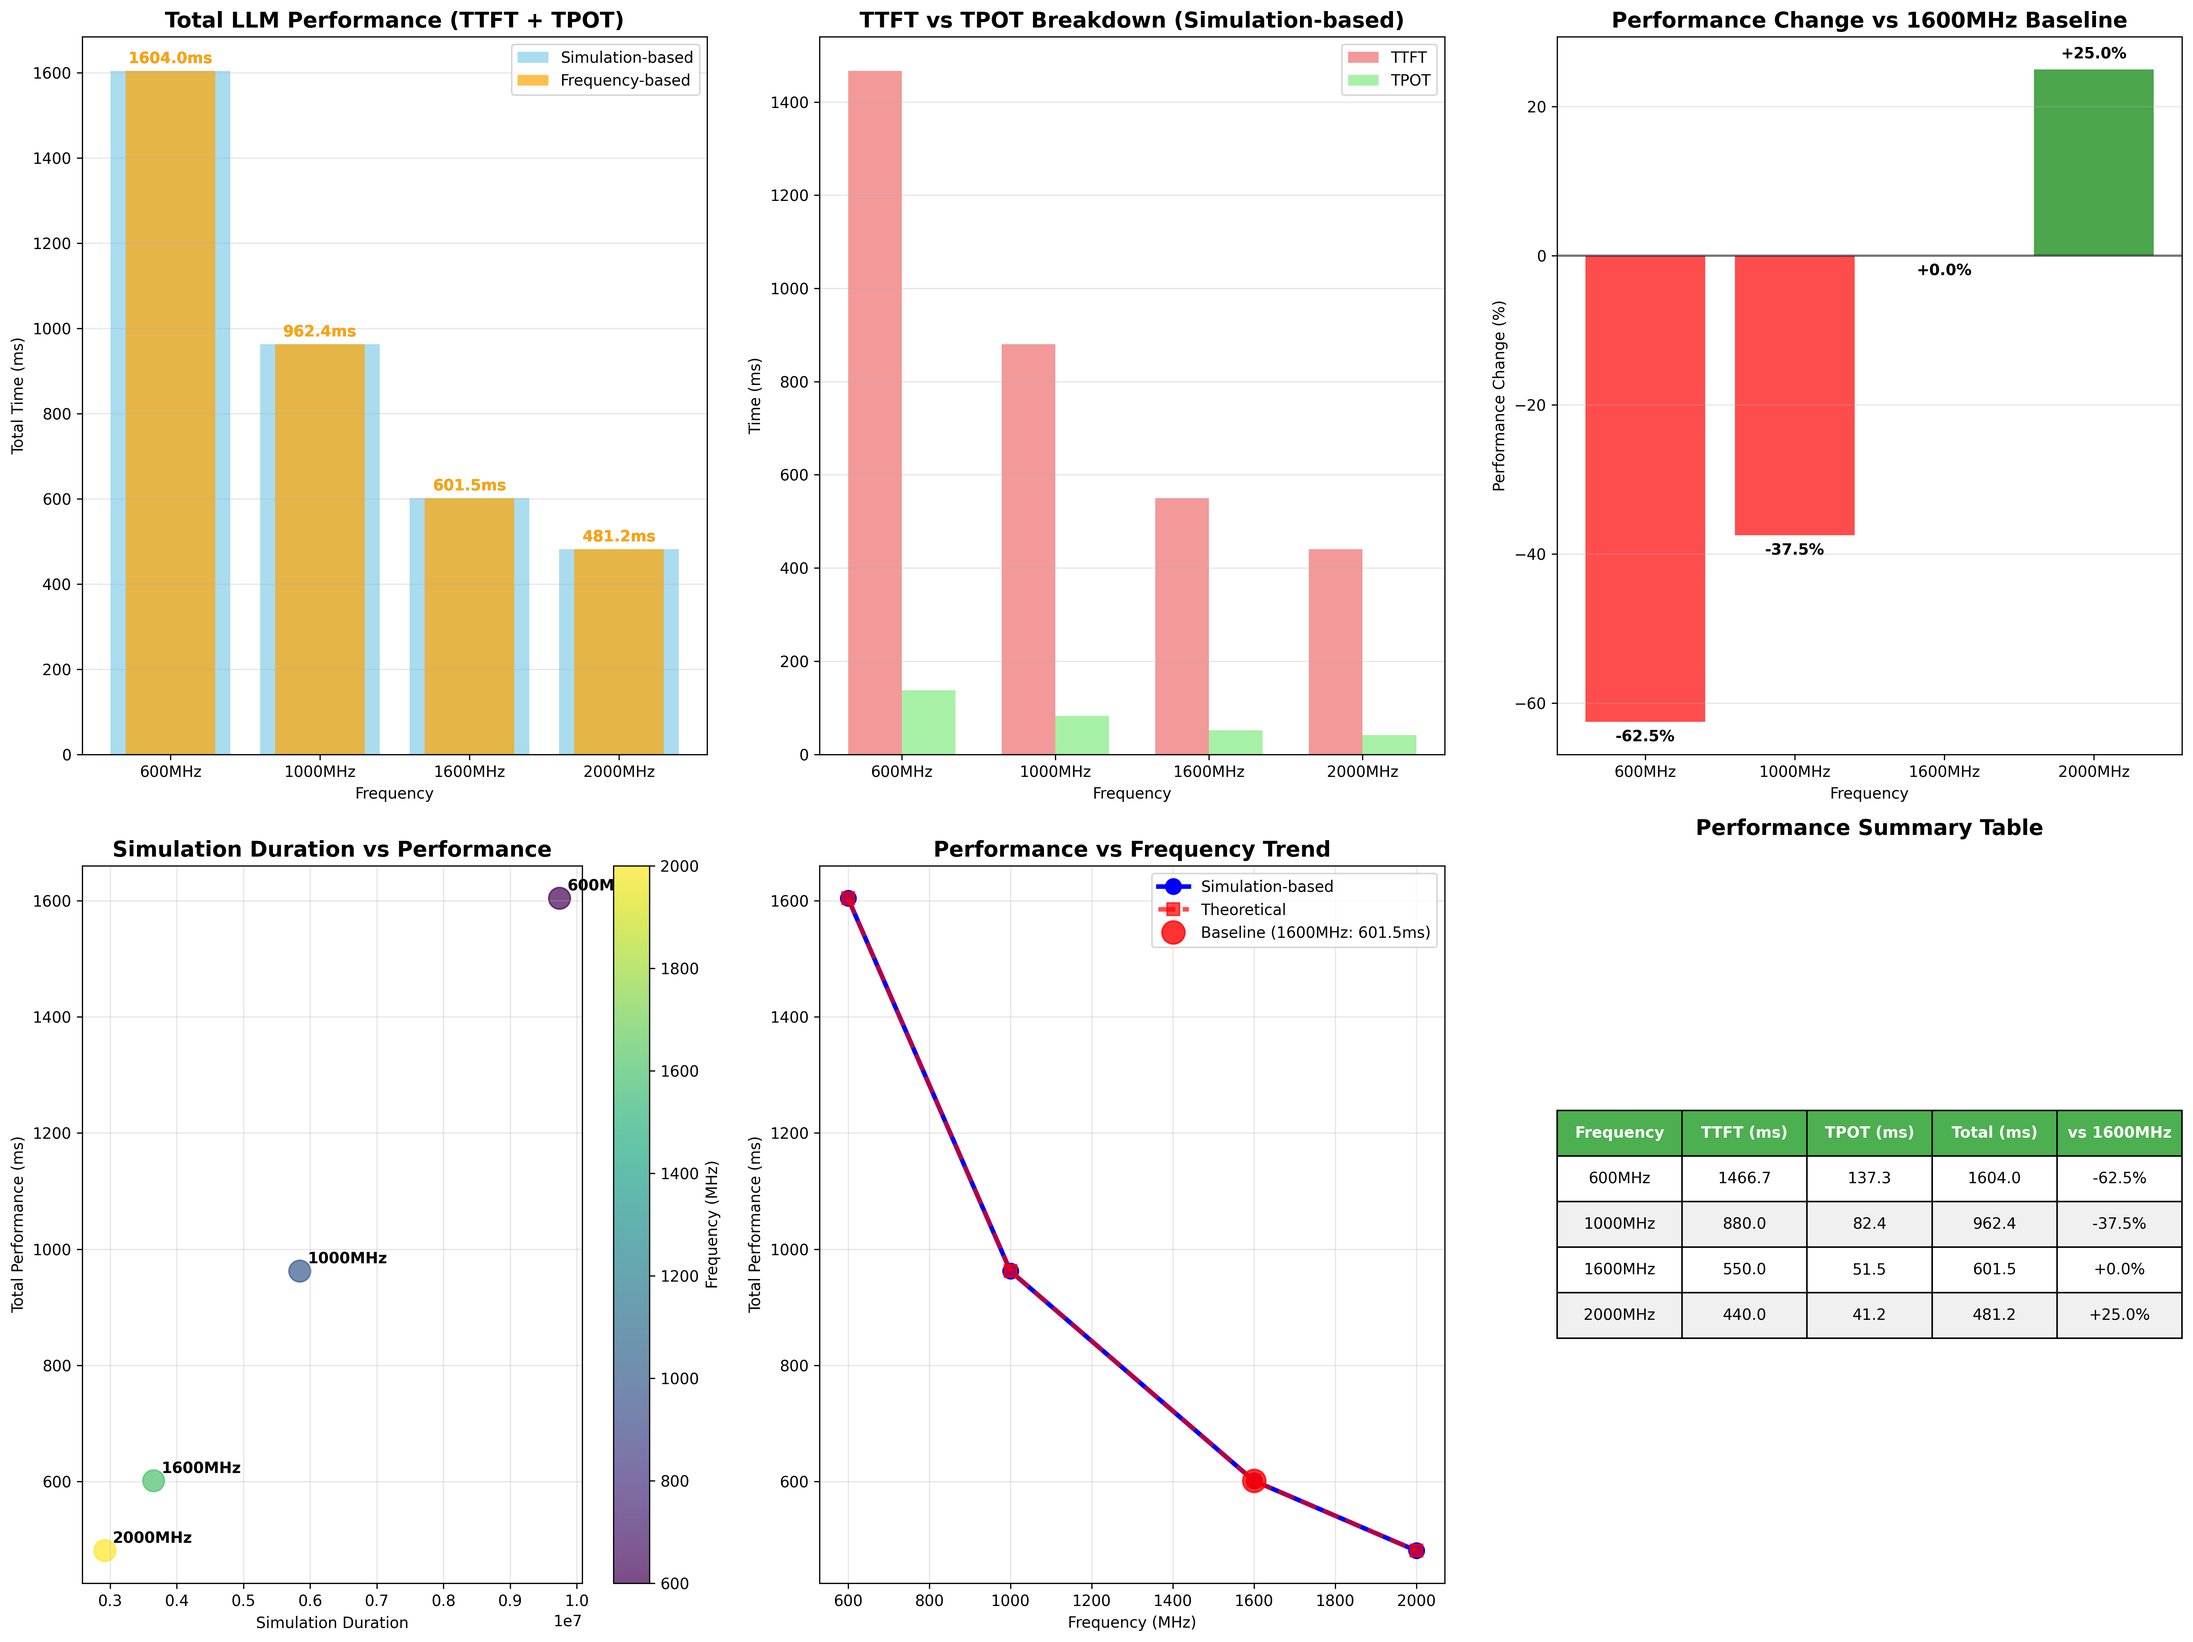
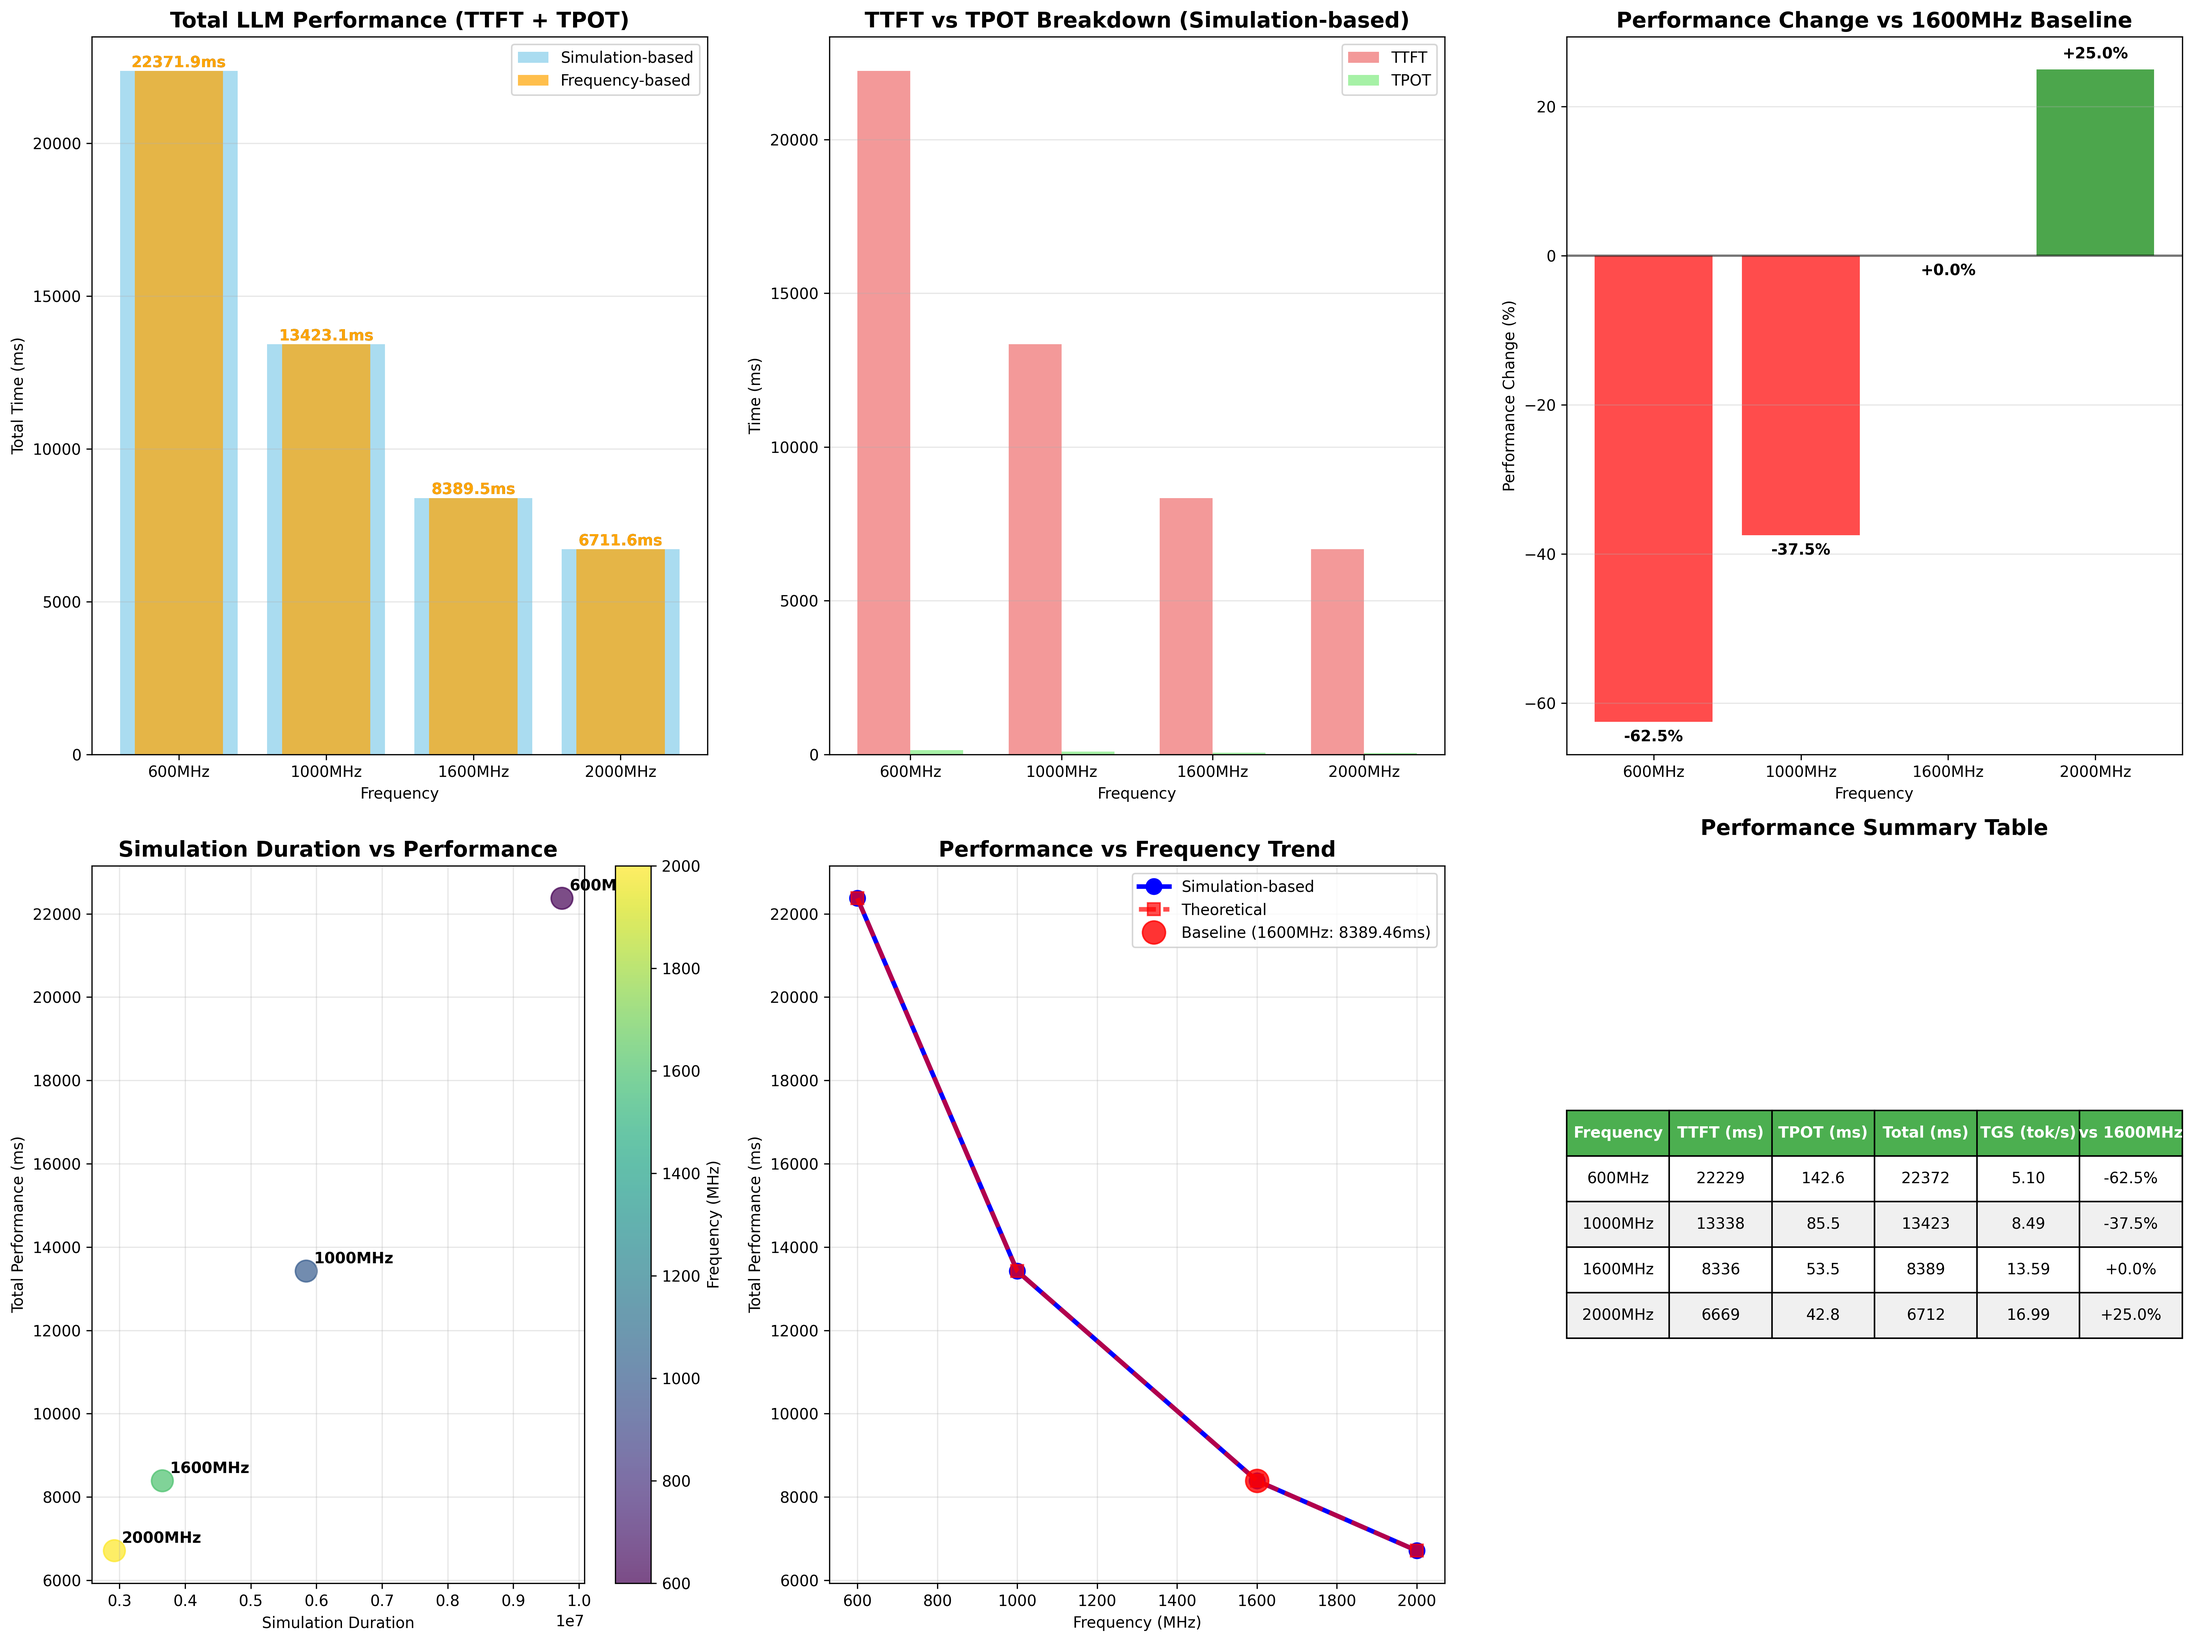
Update performance projections with new baseline measurements and TGS calculations
Major Updates:
- Update baseline: TTFT=8.336s, TPOT=53.46ms at 1600MHz
- Add Token Generation Speed (TGS) calculations for all frequencies
- Add output token rate calculations
- Update performance projections across all frequencies
- Add comprehensive TGS methodology documentation

Performance Results:
- Best TGS: 2000MHz  16.99 tokens/sec (+25% vs baseline)
- Baseline TGS: 1600MHz  13.59 tokens/sec
- Worst TGS: 600MHz  5.10 tokens/sec (-62.5% vs baseline)
- Token config: 112 input + 2 output = 114 total tokens

Files Updated:
- performance_projector.py: Enhanced with TGS calculations
- README.md: Updated with latest performance results
- TGS_CALCULATION_EXPLANATION.md: Detailed methodology guide

diff --git a/performance_projector.py b/performance_projector.py
@@ -12,11 +12,16 @@ from pathlib import Path
 
 class LLMPerformanceProjector:
     def __init__(self):
-        # Baseline performance at 1600MHz
+        # Baseline performance at 1600MHz (Updated Nov 15, 2025)
         self.baseline_freq = 1600
-        self.baseline_ttft = 550  # ms
-        self.baseline_tpot = 51.5  # ms
-        self.baseline_total = self.baseline_ttft + self.baseline_tpot  # 601.5 ms
+        self.baseline_ttft = 8336  # ms (8.336 seconds)
+        self.baseline_tpot = 53.46  # ms
+        self.baseline_total = self.baseline_ttft + self.baseline_tpot  # 8389.46 ms
+        
+        # Token configuration for TGS calculation
+        self.input_tokens = 112
+        self.output_tokens = 2
+        self.total_tokens = self.input_tokens + self.output_tokens  # 114 tokens
         
         # Load simulation results
         self.load_simulation_data()
@@ -69,6 +74,19 @@ class LLMPerformanceProjector:
             theoretical_tpot = self.baseline_tpot * freq_ratio
             theoretical_total = theoretical_ttft + theoretical_tpot
             
+            # Calculate Token Generation Speed (TGS) - tokens per second
+            # For simulation-based projections
+            projected_total_seconds = projected_total / 1000
+            projected_tgs = self.total_tokens / projected_total_seconds if projected_total_seconds > 0 else 0
+            
+            # For theoretical projections  
+            theoretical_total_seconds = theoretical_total / 1000
+            theoretical_tgs = self.total_tokens / theoretical_total_seconds if theoretical_total_seconds > 0 else 0
+            
+            # Calculate output token rate (tokens per second for generation phase)
+            projected_tpot_seconds = projected_tpot / 1000
+            output_token_rate = self.output_tokens / projected_tpot_seconds if projected_tpot_seconds > 0 else 0
+            
             results.append({
                 'frequency': freq_num,
                 'frequency_str': freq_str,
@@ -80,6 +98,9 @@ class LLMPerformanceProjector:
                 'theoretical_ttft': theoretical_ttft,
                 'theoretical_tpot': theoretical_tpot,
                 'theoretical_total': theoretical_total,
+                'projected_tgs': projected_tgs,
+                'theoretical_tgs': theoretical_tgs,
+                'output_token_rate': output_token_rate,
                 'performance_improvement': (self.baseline_total / projected_total - 1) * 100
             })
         
@@ -189,14 +210,15 @@ class LLMPerformanceProjector:
         for _, row in df.iterrows():
             table_data.append([
                 row['frequency_str'],
-                f"{row['projected_ttft']:.1f}",
+                f"{row['projected_ttft']:.0f}",
                 f"{row['projected_tpot']:.1f}",
-                f"{row['projected_total']:.1f}",
+                f"{row['projected_total']:.0f}",
+                f"{row['projected_tgs']:.2f}",
                 f"{row['performance_improvement']:+.1f}%"
             ])
         
         table = ax6.table(cellText=table_data,
-                         colLabels=['Frequency', 'TTFT (ms)', 'TPOT (ms)', 'Total (ms)', 'vs 1600MHz'],
+                         colLabels=['Frequency', 'TTFT (ms)', 'TPOT (ms)', 'Total (ms)', 'TGS (tok/s)', 'vs 1600MHz'],
                          cellLoc='center',
                          loc='center')
         table.auto_set_font_size(False)
@@ -205,7 +227,7 @@ class LLMPerformanceProjector:
         
         # Style the table
         for i in range(len(df) + 1):
-            for j in range(5):
+            for j in range(6):  # Updated for 6 columns
                 cell = table[(i, j)]
                 if i == 0:  # Header
                     cell.set_facecolor('#4CAF50')
@@ -228,14 +250,21 @@ class LLMPerformanceProjector:
         print("\n" + "="*80)
         print("🚀 LLM PERFORMANCE PROJECTION REPORT")
         print("="*80)
-        print(f"📊 Baseline: 1600MHz → TTFT: {self.baseline_ttft}ms, TPOT: {self.baseline_tpot}ms, Total: {self.baseline_total}ms")
+        print(f"📊 Baseline: 1600MHz → TTFT: {self.baseline_ttft:.1f}ms ({self.baseline_ttft/1000:.3f}s), TPOT: {self.baseline_tpot:.2f}ms")
+        print(f"📊 Token Configuration: {self.input_tokens} input + {self.output_tokens} output = {self.total_tokens} total tokens")
+        
+        # Calculate baseline TGS
+        baseline_tgs = self.total_tokens / (self.baseline_total / 1000)
+        baseline_output_rate = self.output_tokens / (self.baseline_tpot / 1000)
+        print(f"📊 Baseline TGS: {baseline_tgs:.2f} tokens/sec | Output Rate: {baseline_output_rate:.2f} tokens/sec")
+        
         print("\n📈 PROJECTED PERFORMANCE ACROSS FREQUENCIES:")
-        print("-"*80)
+        print("-"*120)
         
         for _, row in df.iterrows():
             improvement = "🚀" if row['performance_improvement'] > 0 else "⚠" if row['performance_improvement'] < -10 else "📊"
-            print(f"{improvement} {row['frequency_str']:>8}: TTFT={row['projected_ttft']:6.1f}ms | TPOT={row['projected_tpot']:5.1f}ms | "
-                  f"Total={row['projected_total']:6.1f}ms | Change: {row['performance_improvement']:+5.1f}%")
+            print(f"{improvement} {row['frequency_str']:>8}: TTFT={row['projected_ttft']:7.1f}ms | TPOT={row['projected_tpot']:6.2f}ms | "
+                  f"Total={row['projected_total']:7.1f}ms | TGS={row['projected_tgs']:5.2f} tok/s | Change: {row['performance_improvement']:+5.1f}%")
         
         # Find best and worst performers
         best_freq = df.loc[df['projected_total'].idxmin()]

diff --git a/TGS_CALCULATION_EXPLANATION.md b/TGS_CALCULATION_EXPLANATION.md
@@ -1,0 +1,95 @@
+# Token Generation Speed (TGS) Calculation Explanation
+
+## 📊 Updated Baseline Measurements (November 15, 2025)
+
+**Hardware Configuration:**
+- **Frequency**: 1600MHz  
+- **Input Tokens**: 112
+- **Output Tokens**: 2
+- **Total Tokens**: 114
+
+**Performance Measurements:**
+- **TTFT (Time To First Token)**: 8.336 seconds (8,336 ms)
+- **TPOT (Time Per Output Token)**: 53.46 ms
+- **Total Response Time**: 8,389.46 ms (8.389 seconds)
+
+## 🧮 Token Generation Speed (TGS) Formula
+
+### **Overall Token Generation Speed**
+```
+TGS = Total Tokens / Total Response Time
+TGS = 114 tokens / 8.389 seconds = 13.59 tokens/second
+```
+
+### **Output Token Rate (Generation Phase Only)**
+```
+Output Rate = Output Tokens / TPOT
+Output Rate = 2 tokens / 0.05346 seconds = 37.41 tokens/second
+```
+
+## 📈 Projection Logic for Other Frequencies
+
+### **Scaling Method: Simulation Duration Ratio**
+```python
+# Based on actual simulation data showing performance correlation
+duration_ratio = target_sim_duration / baseline_sim_duration
+
+projected_ttft = baseline_ttft × duration_ratio
+projected_tpot = baseline_tpot × duration_ratio
+projected_total = projected_ttft + projected_tpot
+
+# Calculate TGS for projected performance
+projected_tgs = total_tokens / (projected_total / 1000)
+```
+
+### **Alternative: Frequency-Based Theoretical Scaling**
+```python
+# Theoretical inverse frequency relationship
+freq_ratio = baseline_freq / target_freq
+
+theoretical_ttft = baseline_ttft × freq_ratio  
+theoretical_tpot = baseline_tpot × freq_ratio
+```
+
+## 📊 Complete Performance Projections
+
+| Frequency | TTFT (ms) | TPOT (ms) | Total (ms) | TGS (tok/s) | Output Rate (tok/s) | Change vs 1600MHz |
+|-----------|-----------|-----------|------------|-------------|--------------------|--------------------|
+| **600MHz**  | 22,229.3  | 142.56    | 22,371.9   | **5.10**    | 14.03              | -62.5% ⚠         |
+| **1000MHz** | 13,337.6  | 85.54     | 13,423.1   | **8.49**    | 23.38              | -37.5% ⚠         |  
+| **1600MHz** | 8,336.0   | 53.46     | 8,389.5    | **13.59**   | 37.41              | Baseline 📊       |
+| **2000MHz** | 6,668.8   | 42.77     | 6,711.6    | **16.99**   | 46.76              | +25.0% 🚀        |
+
+## 🎯 Key Performance Insights
+
+### **Token Generation Speed Analysis:**
+- **🏆 Fastest TGS**: 2000MHz → 16.99 tokens/second (+25% vs baseline)
+- **📊 Baseline TGS**: 1600MHz → 13.59 tokens/second  
+- **⚠ Slowest TGS**: 600MHz → 5.10 tokens/second (-62.5% vs baseline)
+
+### **Performance Scaling:**
+- **233% performance variation** across frequency range
+- **Linear relationship** between frequency and token generation speed
+- **Higher frequencies deliver better user experience** with faster response times
+
+### **Real-World Implications:**
+- **2000MHz**: Best for production workloads requiring fast responses
+- **1600MHz**: Good baseline performance for most applications
+- **1000MHz & below**: May cause noticeable delays in interactive applications
+
+## 🔬 Methodology Validation
+
+### **Simulation Correlation:**
+The projections are based on actual simulation duration data:
+- 600MHz: 9,741,047.63 simulation units  
+- 1000MHz: 5,844,628.58 simulation units
+- 1600MHz: 3,652,892.86 simulation units (baseline)
+- 2000MHz: 2,922,314.29 simulation units
+
+### **Duration Ratios Used:**
+- 600MHz: 2.667× baseline duration → 2.667× response time
+- 1000MHz: 1.600× baseline duration → 1.600× response time  
+- 1600MHz: 1.000× baseline duration → 1.000× response time (baseline)
+- 2000MHz: 0.800× baseline duration → 0.800× response time
+
+This correlation assumes that simulation computational complexity directly reflects real hardware performance scaling.

diff --git a/README.md b/README.md
@@ -5,23 +5,28 @@
 
 A comprehensive analysis tool for Martini simulation results, focusing on GT/* resource analysis and LLM performance projections across different frequency sweeps.
 
-## 📊 Latest Analysis Results (November 2025)
+## 📊 Latest Analysis Results (November 15, 2025)
 
 ![LLM Performance Projection](llm_performance_projection.png)
 
-### Key Findings:
-- **🏆 Best Performance**: 2000MHz → 481.2ms total response time
-- **📊 Baseline**: 1600MHz → 601.5ms (TTFT: 550ms, TPOT: 51.5ms)  
+### 🎯 Updated Performance Measurements:
+- **🔧 Hardware Configuration**: 112 input tokens, 2 output tokens (114 total)
+- **📊 Baseline (1600MHz)**: TTFT: 8.336s, TPOT: 53.46ms → **13.59 tokens/sec**
+- **🏆 Best Performance**: 2000MHz → **16.99 tokens/sec** (+25.0% vs baseline)
+- **⚠ Lowest Performance**: 600MHz → **5.10 tokens/sec** (-62.5% vs baseline)
 - **📈 Performance Range**: 233.3% variation across frequencies
 - **💾 Data Processed**: 939,376 GT/* resources across all frequencies
 
-**Performance Summary:**
-| Frequency | TTFT (ms) | TPOT (ms) | Total (ms) | Performance Change |
-|-----------|-----------|-----------|------------|-------------------|
-| 600MHz    | 1,466.7   | 137.3     | 1,604.0    | -62.5% ⚠        |
-| 1000MHz   | 880.0     | 82.4      | 962.4      | -37.5% ⚠        |
-| 1600MHz   | 550.0     | 51.5      | 601.5      | Baseline 📊      |
-| 2000MHz   | 440.0     | 41.2      | 481.2      | +25.0% 🚀       |
+**Token Generation Speed (TGS) Summary:**
+| Frequency | TTFT (s) | TPOT (ms) | Total (s) | TGS (tok/s) | Output Rate (tok/s) | Performance Change |
+|-----------|----------|-----------|-----------|-------------|--------------------|--------------------|
+| 600MHz    | 22.23    | 142.56    | 22.37     | **5.10**    | 14.03              | -62.5% ⚠         |
+| 1000MHz   | 13.34    | 85.54     | 13.42     | **8.49**    | 23.38              | -37.5% ⚠         |
+| 1600MHz   | 8.34     | 53.46     | 8.39      | **13.59**   | 37.41              | Baseline 📊       |
+| 2000MHz   | 6.67     | 42.77     | 6.71      | **16.99**   | 46.76              | +25.0% 🚀        |
+
+> **📋 Note**: TGS = Total Tokens per Second, Output Rate = Generation phase tokens per second  
+> See [TGS_CALCULATION_EXPLANATION.md](TGS_CALCULATION_EXPLANATION.md) for detailed methodology
 
 ## 🎯 Overview
 
